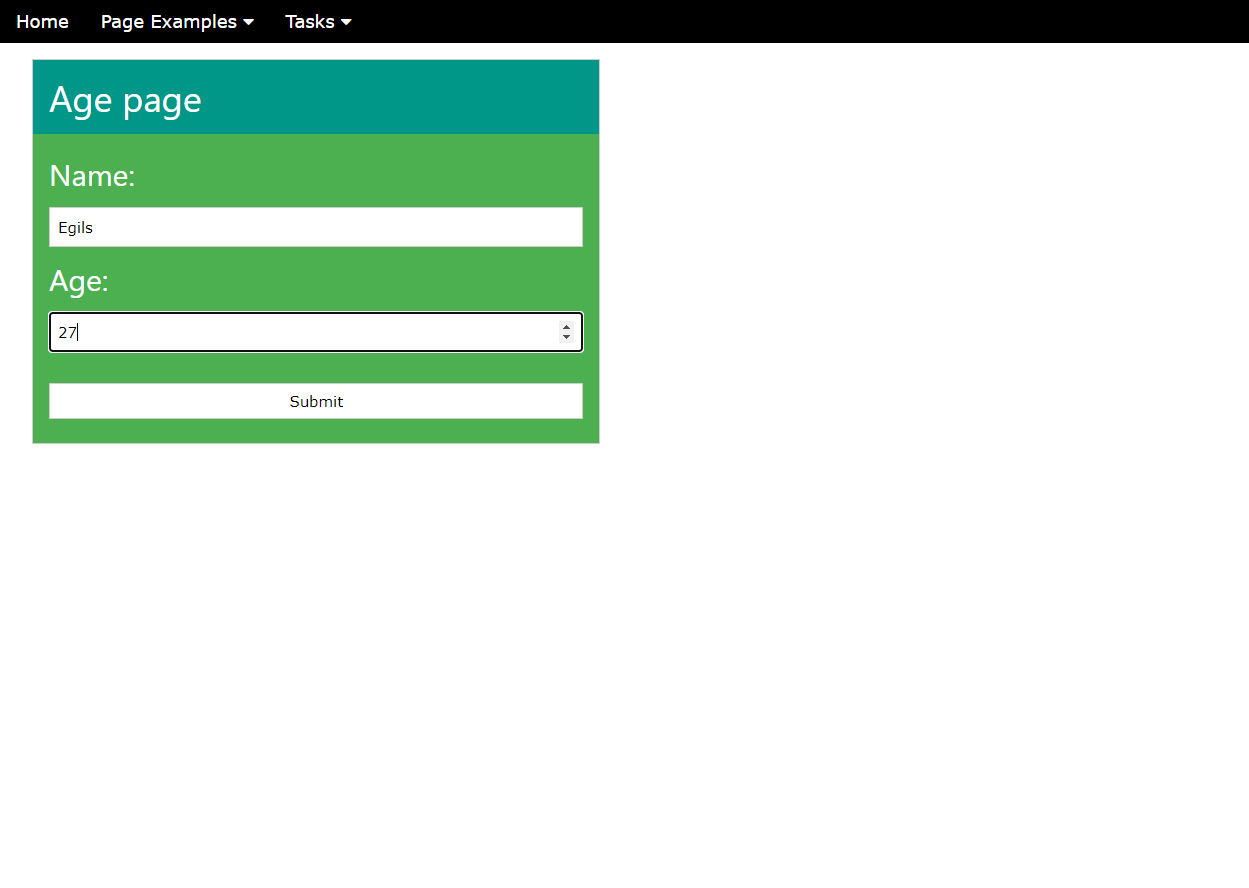
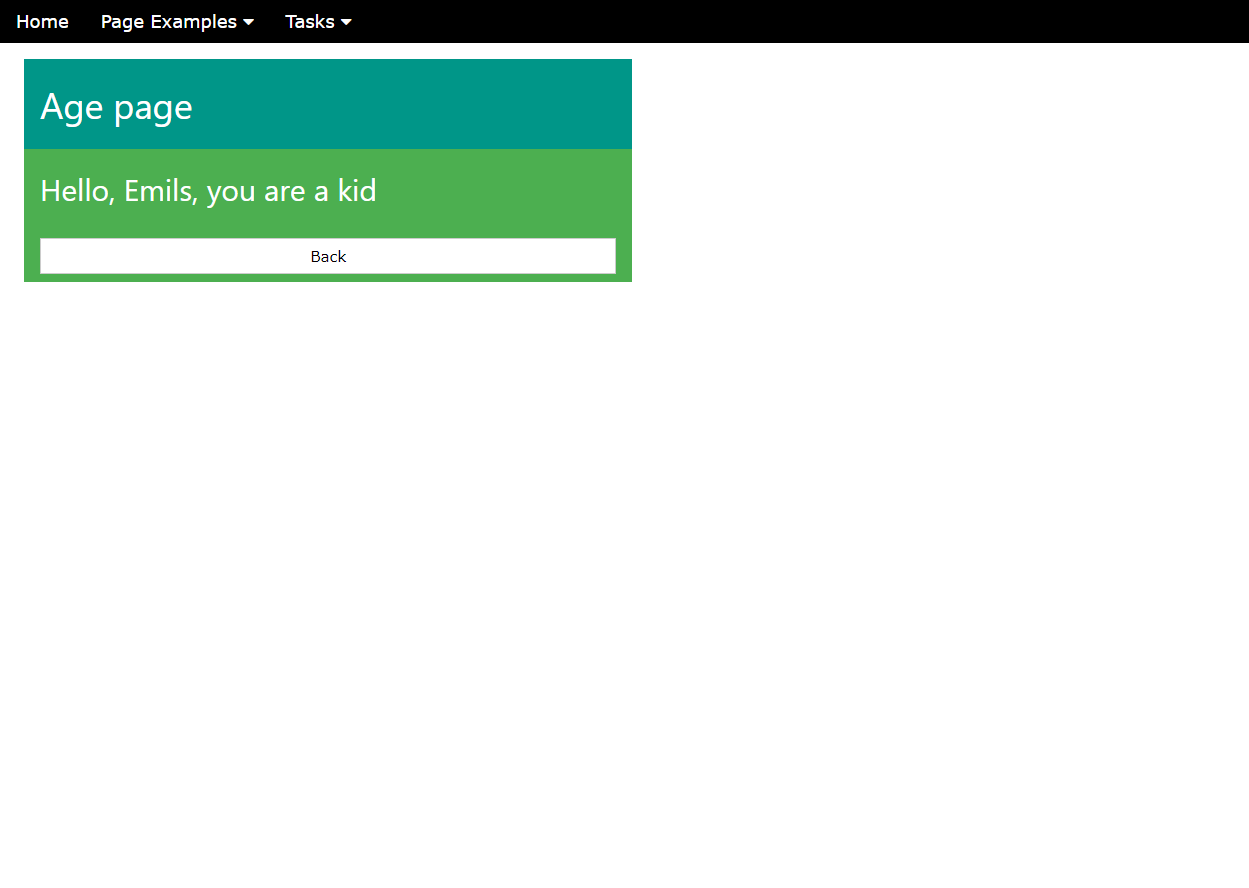
Commit2

Changed region(s): [[0.0, 0.0608, 0.5308, 0.5169]]

diff --git a/cucumber-report/html-report/report.js b/cucumber-report/html-report/report.js
@@ -7,97 +7,100 @@ formatter.feature({
   "keyword": "Feature"
 });
 formatter.before({
-  "duration": 1346115900,
+  "duration": 1340494900,
   "status": "passed"
 });
 formatter.scenario({
-  "line": 10,
-  "name": "Simple scenario 3 - Check Age page functionality",
+  "line": 18,
+  "name": "Simple scenario 4 - Check Age page functionality2",
   "description": "",
-  "id": "introduction-to-cucumber-part-2;simple-scenario-3---check-age-page-functionality",
+  "id": "introduction-to-cucumber-part-2;simple-scenario-4---check-age-page-functionality2",
   "type": "scenario",
   "keyword": "Scenario",
   "tags": [
     {
-      "line": 9,
-      "name": "@AgeScenario"
+      "line": 17,
+      "name": "@AgeScenario2"
     }
   ]
 });
 formatter.step({
-  "line": 11,
-  "name": "User navigates to Age page",
+  "line": 19,
+  "name": "User2 navigates to Age page",
   "keyword": "Given "
 });
 formatter.step({
-  "line": 12,
-  "name": "User enters name : \"Egils\"",
+  "line": 20,
+  "name": "User2 enters name : \"Emils\"",
   "keyword": "When "
 });
 formatter.step({
-  "line": 13,
-  "name": "User enters age : \"27\"",
+  "line": 21,
+  "name": "User2 enters age : \"7\"",
   "keyword": "And "
 });
 formatter.step({
-  "line": 14,
-  "name": "User clicks on Submit button",
+  "line": 22,
+  "name": "User2 clicks on Submit button",
   "keyword": "And "
 });
 formatter.step({
-  "line": 15,
-  "name": "User receives Hello message",
+  "line": 23,
+  "name": "User2 receives Hello message",
   "keyword": "Then "
 });
 formatter.match({
-  "location": "SampleSteps.user_navigates_to_Age_page()"
+  "arguments": [
+    {
+      "val": "2",
+      "offset": 4
+    }
+  ],
+  "location": "SampleSteps.user2_navigates_to_Age_page(int)"
 });
 formatter.result({
-  "duration": 871226100,
-  "status": "passed"
+  "duration": 894823300,
+  "error_message": "cucumber.api.PendingException: TODO: implement me\r\n\tat stepDefinitions.SampleSteps.user2_navigates_to_Age_page(SampleSteps.java:97)\r\n\tat ✽.Given User2 navigates to Age page(src/test/resources/features/Sample2.feature:19)\r\n",
+  "status": "pending"
 });
 formatter.match({
   "arguments": [
     {
-      "val": "Egils",
+      "val": "Emils",
+      "offset": 21
+    }
+  ],
+  "location": "SampleSteps.user2_enters_name(String)"
+});
+formatter.result({
+  "status": "skipped"
+});
+formatter.match({
+  "arguments": [
+    {
+      "val": "7",
       "offset": 20
     }
   ],
-  "location": "SampleSteps.user_enters_name(String)"
+  "location": "SampleSteps.user2_enters_age(String)"
 });
 formatter.result({
-  "duration": 69597800,
-  "status": "passed"
+  "status": "skipped"
 });
 formatter.match({
-  "arguments": [
-    {
-      "val": "27",
-      "offset": 19
-    }
-  ],
-  "location": "SampleSteps.user_enters_age(String)"
+  "location": "SampleSteps.user2_clicks_on_Submit_button(int)"
 });
 formatter.result({
-  "duration": 33923600,
-  "status": "passed"
+  "status": "skipped"
 });
 formatter.match({
-  "location": "SampleSteps.user_clicks_on_Submit_button()"
+  "location": "SampleSteps.user2_receives_Hello_message(int)"
 });
 formatter.result({
-  "duration": 79723900,
-  "status": "passed"
-});
-formatter.match({
-  "location": "SampleSteps.user_receives_Hello_message()"
-});
-formatter.result({
-  "duration": 17457100,
-  "status": "passed"
+  "status": "skipped"
 });
 formatter.after({
-  "duration": 3081919900,
+  "duration": 3104557900,
   "status": "passed"
 });
 });

diff --git a/src/test/java/stepDefinitions/SampleSteps.java b/src/test/java/stepDefinitions/SampleSteps.java
@@ -89,6 +89,37 @@ public class SampleSteps {
     public void user_receives_Hello_message() throws Throwable {
         Assert.assertEquals("Hello, Egils, you are an adult",driver.findElement(By.id("message")).getText());
     }
+
+
+    @Given("^User(\\d+) navigates to Age page$")
+    public void user2_navigates_to_Age_page(int arg1) throws Throwable {
+        driver.get("https://kristinek.github.io/site/examples/age");
+        throw new PendingException();
+    }
+
+    @When("^User2 enters name : \"([^\"]*)\"$")
+    public void user2_enters_name(String arg2) throws Throwable {
+        WebElement nameText = driver.findElement(By.id("name"));
+        nameText.clear();
+        nameText.sendKeys(arg2);
+    }
+
+    @When("^User2 enters age : \"([^\"]*)\"$")
+    public void user2_enters_age(String arg2) throws Throwable {
+        WebElement ageText = driver.findElement(By.name("age"));
+        ageText.sendKeys(arg2);
+    }
+
+    @When("^User2 clicks on Submit button$")
+    public void user2_clicks_on_Submit_button(int arg1) throws Throwable {
+        driver.findElement(By.id("submit")).click();
+    }
+
+    @Then("^User2 receives Hello message$")
+    public void user2_receives_Hello_message(int arg1) throws Throwable {
+        Assert.assertEquals("Hello, Emils, you are a kid",driver.findElement(By.id("message")).getText());
+    }
+
 }
 
 

diff --git a/src/test/java/runners/CucumberRunner.java b/src/test/java/runners/CucumberRunner.java
@@ -10,7 +10,7 @@ import org.junit.runner.RunWith;
         plugin = {"pretty", "html:cucumber-report/html-report",
                 "junit:cucumber-report/junit-report.xml",
                 "json:cucumber-report/json-report.json"},
-        tags = {"@AgeScenario"},
+        tags = {"@AgeScenario2"},
         dryRun = false,
         glue = {"stepDefinitions"}
 )
